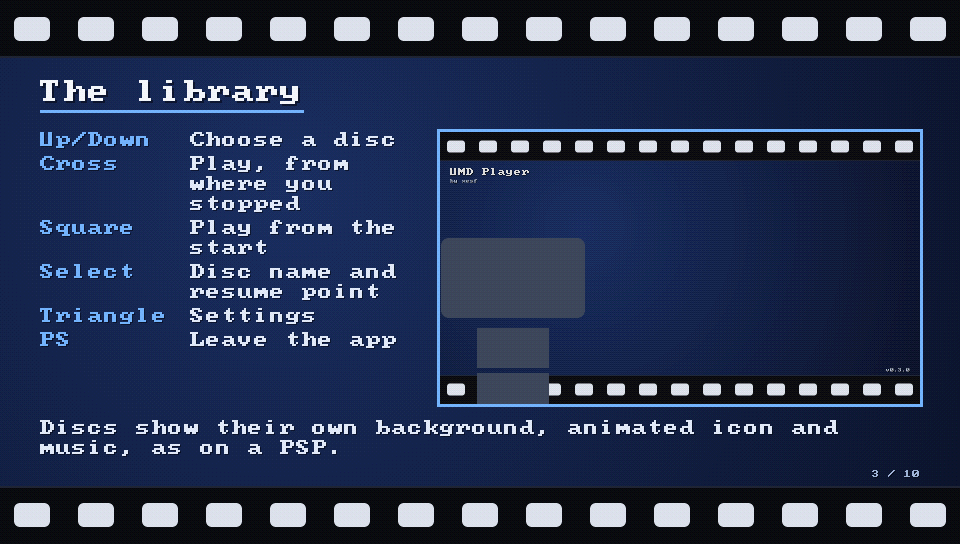
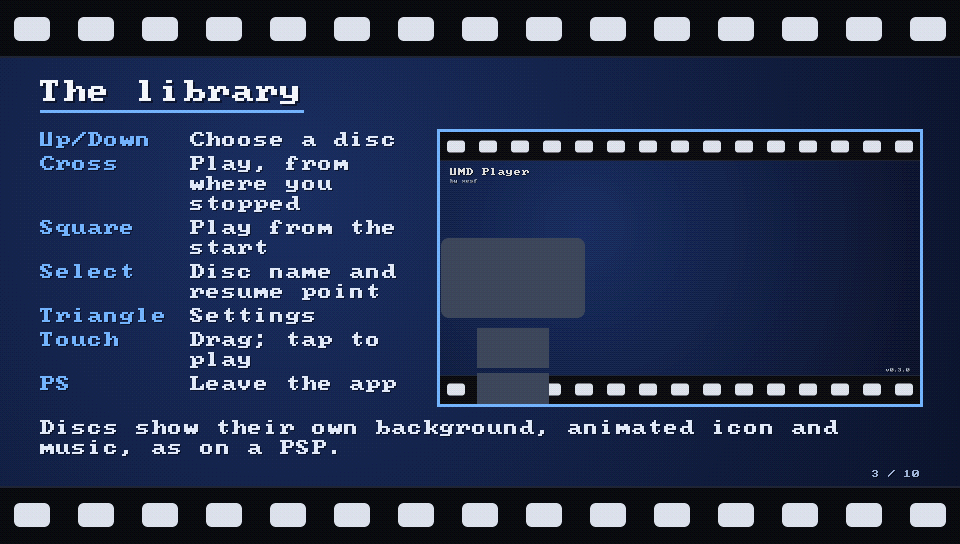
Touch in the library
Dragging up or down moves through the discs, one per 90 px, the spacing of
the list. A tap on the selected disc plays it, and a tap on a disc above or
below selects it. The manual and the Vita manual's library page say so.

diff --git a/src/app/library.c b/src/app/library.c
@@ -46,6 +46,8 @@
 #define PIC_MAX_W      960
 #define PIC_MAX_H      544
 
+#define DRAG_STEP      90              /* finger travel per disc when dragging the list: its spacing */
+#define TAP_MOVE       24              /* at most this much movement for a tap */
 #define TEXT_DIM  RGBA(180, 190, 210, 255)
 
 typedef struct lib_disc {
@@ -132,6 +134,7 @@ struct library {
     plat_present_info info;
     int ui_dirty;
     int show_info;                   /* SELECT toggles the title and resume panel */
+    int touch_down, touch_x0, touch_y0, touch_step_y, touch_moved;   /* a finger on the screen */
     int settings_open, settings_row; /* △: the defaults for new discs */
     int marks_stale;                 /* reread the resume points: a movie was played */
 };
@@ -1121,6 +1124,54 @@ static void draw_empty(library *l)
     l->ui_dirty = 0;
 }
 
+/* The touch screen, as buttons. Dragging up or down moves through the list, a disc per
+   DRAG_STEP; a tap on the selected disc plays it, and a tap on one above or below selects it. */
+static uint32_t touch_buttons(library *l)
+{
+    int x, y, down = plat_touch(&x, &y);
+    uint32_t b = 0;
+
+    if (down && !l->touch_down) {
+        l->touch_down = 1;
+        l->touch_x0 = x;
+        l->touch_y0 = l->touch_step_y = y;
+        l->touch_moved = 0;
+    }
+    if (down) {
+        if (abs(x - l->touch_x0) > TAP_MOVE || abs(y - l->touch_y0) > TAP_MOVE)
+            l->touch_moved = 1;
+        if (y - l->touch_step_y <= -DRAG_STEP) {     /* the list follows the finger up: next disc */
+            l->touch_step_y -= DRAG_STEP;
+            b |= PLAT_BTN_DOWN;
+        } else if (y - l->touch_step_y >= DRAG_STEP) {
+            l->touch_step_y += DRAG_STEP;
+            b |= PLAT_BTN_UP;
+        }
+        return b;
+    }
+    if (!l->touch_down)
+        return 0;
+    l->touch_down = 0;
+    if (l->touch_moved || l->settings_open)
+        return 0;
+    x = l->touch_x0;
+    y = l->touch_y0;
+    if (x >= BIG_X && x < BIG_X + 2 * ICON_W && y >= BIG_Y && y < BIG_Y + 2 * ICON_H)
+        return PLAT_BTN_CROSS;
+    if (x < SMALL_X - 16 || x >= SMALL_X + ICON_W + 16)
+        return 0;
+    if (y >= BIG_Y - 100 && y < BIG_Y - 100 + ICON_H)
+        return PLAT_BTN_UP;
+    for (int k = 1; k <= 2; k++) {               /* the discs below, as draw_ui places them */
+        int top = BIG_Y + 2 * ICON_H + 20 + (k - 1) * 90;
+        if (y >= top && y < top + ICON_H && l->sel + k < l->count) {
+            l->sel += k - 1;                     /* the Down below makes it k */
+            return PLAT_BTN_DOWN;
+        }
+    }
+    return 0;
+}
+
 int library_update(library *l, uint32_t pressed)
 {
     int present = 0;
@@ -1145,6 +1196,7 @@ int library_update(library *l, uint32_t pressed)
         load_resume_marks(l);
         l->ui_dirty = 1;
     }
+    pressed |= touch_buttons(l);
     if (l->settings_open) {
         settings_input(l, pressed);
         pressed = 0;

diff --git a/tools/make_manual.py b/tools/make_manual.py
@@ -156,7 +156,8 @@ def main():
     put_half(p.c, os.path.join(shots, 'library.png'), W - LEFT - 480, p.y)
     p.rows([('Up/Down', 'Choose a disc'), ('Cross', 'Play, from where you stopped'),
             ('Square', 'Play from the start'), ('Select', 'Disc name and resume point'),
-            ('Triangle', 'Settings'), ('PS', 'Leave the app')], key_w=150, chars=13)
+            ('Triangle', 'Settings'), ('Touch', 'Drag; tap to play'), ('PS', 'Leave the app')],
+           key_w=150, chars=13)
     p.y = max(p.y, BAND + 74 + 272 + 16)
     p.para('Discs show their own background, animated icon and music, as on a PSP.')
     p.save(out, 3)

diff --git a/docs/manual.md b/docs/manual.md
@@ -40,6 +40,7 @@ The selected disc is the large icon on the left. On a PSP-authored disc, the bac
 | □ | Play the disc from the start, keeping its settings. With disc menus, the disc starts as if inserted for the first time. |
 | Select | Show or hide the disc's name and resume point |
 | △ | Open the settings |
+| Touch | Drag up or down to move through the discs. Tap a disc above or below to select it, and the selected disc to play it. |
 | PS button | Leave the app |
 
 ![The disc panel shown with Select](manual/library-info.png)

diff --git a/CHANGELOG.md b/CHANGELOG.md
@@ -1,5 +1,9 @@
 # Changelog
 
+## Unreleased
+
+- The library takes the touch screen: drag up or down to move through the discs, tap a disc above or below to select it, and tap the selected disc to play it.
+
 ## v0.5.1 (2026-10-15)
 
 - Disc menus take the touch screen: tap an item to choose it (a tap near a button counts, so The Bourne Supremacy's scene thumbnails work), swipe to move as with the D-pad, and on menus that move their own highlight, tap anywhere to choose.
